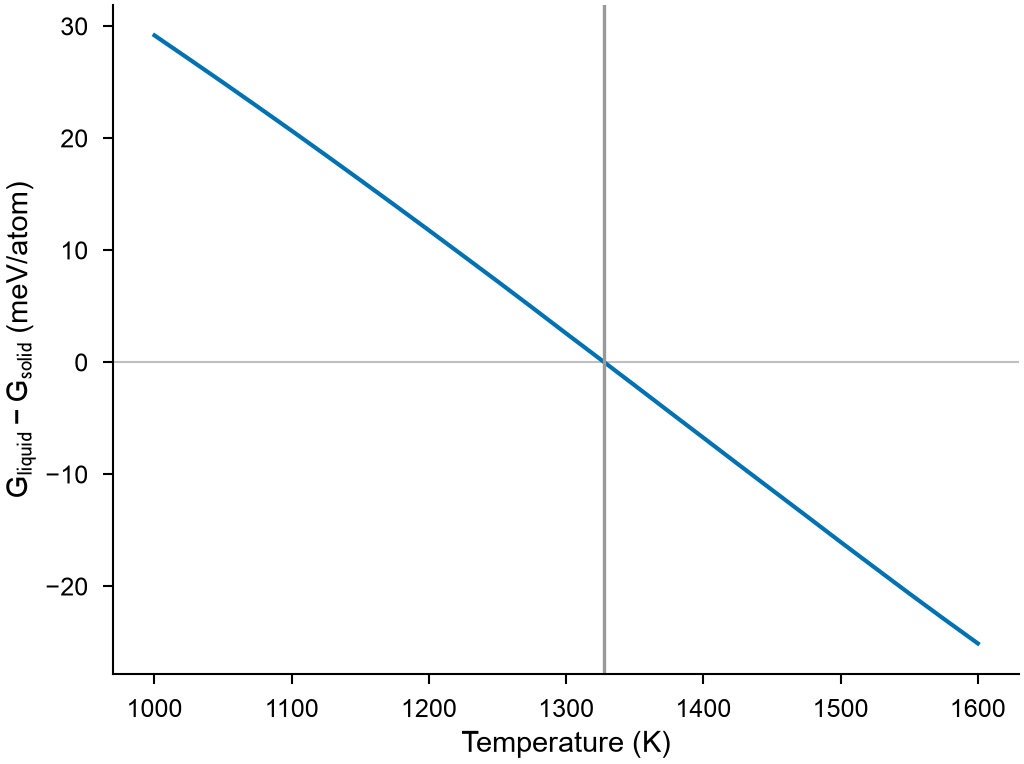
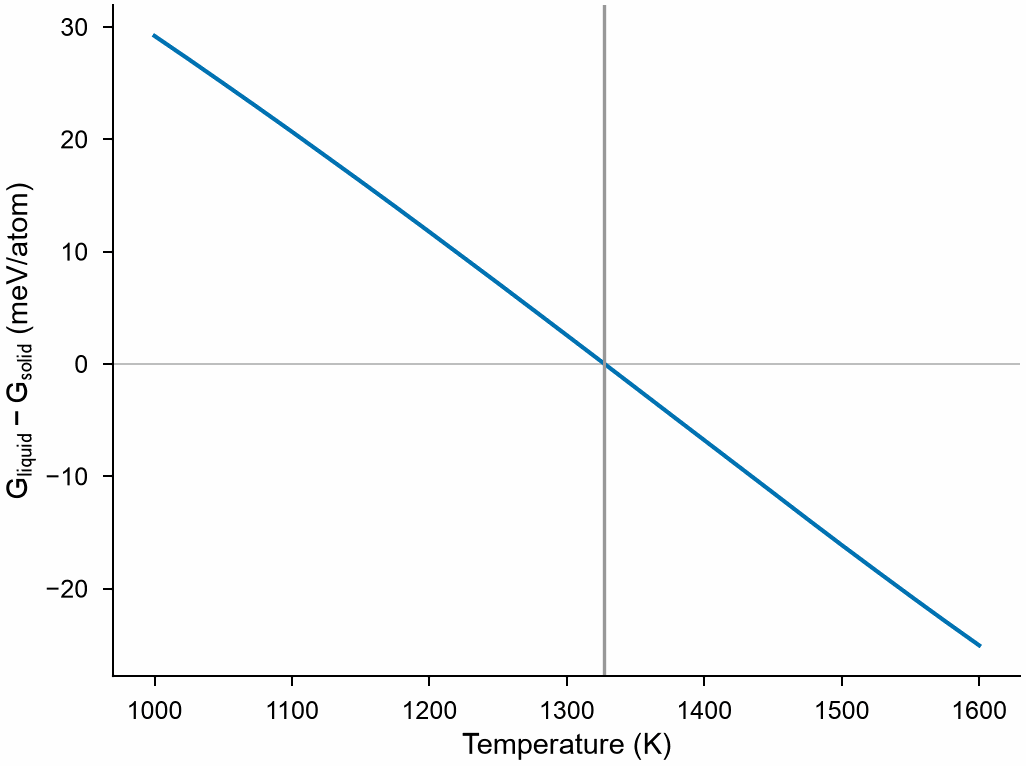
The pages run again on the GPU with independent noise: the free energy of copper on a GPU, its melting point 1327 K as in LAMMPS; the lengths of NEMD, 0.96 ± 0.09 W/(m K) at an infinite length; the cascade, 3 Frenkel pairs left

diff --git a/docs/user-guide/simulation/free-energy.md b/docs/user-guide/simulation/free-energy.md
@@ -31,18 +31,17 @@ LAMMPS gives the same crystal −0.07428 eV per atom, and MDAPY −0.07430, the 
 of three seeds each, with standard errors of 1e-5 eV.
 
 The melting point of copper from the crossing of the free energies of its solid and
-its liquid, of 5324 atoms each, with the EAM potential of Mishin et al. in LAMMPS:
+its liquid, of 5324 atoms each, with the EAM potential of Mishin et al. on a
+[GPU](gpu.md):
 
 <!-- skip-test -->
 ```python
 import numpy as np
 from mdapy.build import build_crystal
-from mdapy.calculators import LAMMPS
+from mdapy.calculators import EAM
 from mdapy.simulation import free_energy, minimize
 
-potential = LAMMPS(
-    "pair_style eam/alloy\npair_coeff * * Cu_mishin1.eam.alloy Cu", elements=["Cu"]
-)
+potential = EAM("Cu_mishin1.eam.alloy", device="cuda")  # the file of LAMMPS
 crystal = minimize(
     build_crystal("fcc", 3.615, elements="Cu", repeat=(11, 11, 11)),
     potential,
@@ -58,7 +57,7 @@ liquid = free_energy(
 )
 solid.free_energy  # eV per atom at each temperature
 melting = solid.crossing(liquid)
-melting.temperature, melting.latent_heat  # 1328 K, 0.124 eV per atom
+melting.temperature, melting.latent_heat  # 1327 K, 0.124 eV per atom
 ```
 
 The two phases of copper meet at its melting point:
@@ -80,8 +79,9 @@ with plot.style():
 
 ![Free energy of solid and liquid copper](images/free-energy.png)
 
-*Copper with the EAM potential of Mishin et al., 5324 atoms: the liquid has the lower
-free energy above 1328 K. A millielectronvolt per atom is 11 K here.*
+*Copper with the EAM potential of Mishin et al., 5324 atoms, in 29 minutes on one V100:
+the liquid has the lower free energy above 1327 K, as in LAMMPS, 1328 K. A
+millielectronvolt per atom is 11 K here.*
 
 These are the free energies of exactly these atoms in their periodic box, so they depend
 a little on the number of atoms, and so does where the phases meet: the same copper gives

diff --git a/docs/examples/radiation-cascade.md b/docs/examples/radiation-cascade.md
@@ -120,7 +120,7 @@ with plot.style():
     bottom.set_ylabel("Frenkel pairs")
     bottom.set_xlabel("Time (ps)")
     plot.save(fig, "images/radiation-cascade", formats=("png",))
-pairs.max(), pairs[-1]  # 23 at the peak of the cascade, 4 at the end
+pairs.max(), pairs[-1]  # 23 at the peak of the cascade, 3 at the end
 ```
 
 ![The temperature and the Frenkel pairs of a cascade of 2 keV in tungsten](images/radiation-cascade.png)
@@ -128,7 +128,7 @@ pairs.max(), pairs[-1]  # 23 at the peak of the cascade, 4 at the end
 *A cascade of 2 keV in 54000 atoms of tungsten, under three minutes on one V100 GPU.
 The temperature of the box starts near 580 K, as the 2 keV of the PKA count in the
 kinetic energy of all the atoms, and falls back to 300 K as the border takes the heat
-away. Of the 23 Frenkel pairs at 0.4 ps, 4 are left after 3 ps: most of the atoms
+away. Of the 23 Frenkel pairs at 0.4 ps, 4 are left after 3 ps and 3 after 8 ps: most of the atoms
 knocked out of their places fall back into vacancies as the cascade cools. The dynamics
 are chaotic, so another run, or another GPU, leaves a few more or fewer.*
 
@@ -152,8 +152,8 @@ render(
 
 ![The vacancies and interstitials left by the cascade](images/radiation-cascade-defects.png)
 
-*The four vacancies in blue, at the center of the box where the cascade began, and the
-four interstitials around them in red, each two atoms sharing one site.*
+*The three vacancies in blue, at the center of the box where the cascade began, and the
+three interstitials around them in red, each two atoms sharing one site.*
 
 ## See also
 

diff --git a/docs/user-guide/simulation/nemd.md b/docs/user-guide/simulation/nemd.md
@@ -84,12 +84,12 @@ on one GPU gave
 
 | Length | κ (W/(m K)) |
 |---|---|
-| 4.2 nm | 0.44 ± 0.02 |
-| 8.4 nm | 0.66 ± 0.05 |
-| 16.9 nm | 0.68 ± 0.05 |
-| 33.8 nm | 0.79 ± 0.03 |
+| 4.2 nm | 0.40 ± 0.03 |
+| 8.4 nm | 0.61 ± 0.02 |
+| 16.9 nm | 0.69 ± 0.04 |
+| 33.8 nm | 0.83 ± 0.08 |
 
-and a line of 1/κ against 1/L reaches 0.88 ± 0.05 W/(m K) at an infinite length.
+and a line of 1/κ against 1/L reaches 0.96 ± 0.09 W/(m K) at an infinite length.
 Compare boxes of growing length. The [Green–Kubo relation](green-kubo.md)
 and [HNEMD](hnemd.md) need no such length.
 
